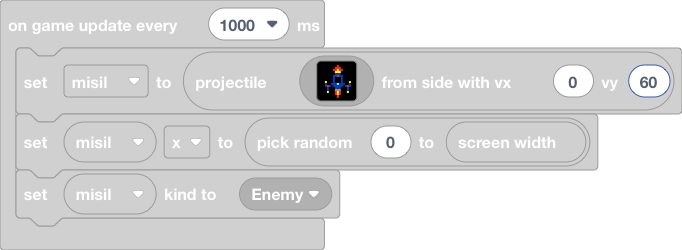
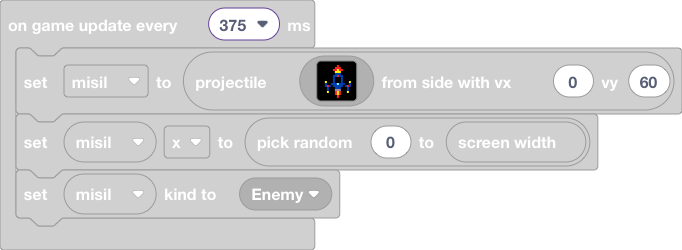
change difficulty

diff --git a/main.ts b/main.ts
@@ -41,7 +41,7 @@ mySprite.setPosition(79, 110)
 controller.moveSprite(mySprite, 100, 0)
 mySprite.setStayInScreen(true)
 info.setLife(2)
-game.onUpdateInterval(1000, function () {
+game.onUpdateInterval(375, function () {
     misil = sprites.createProjectileFromSide(assets.image`misile`, 0, 60)
     misil.x = randint(0, scene.screenWidth())
     misil.setKind(SpriteKind.Enemy)
